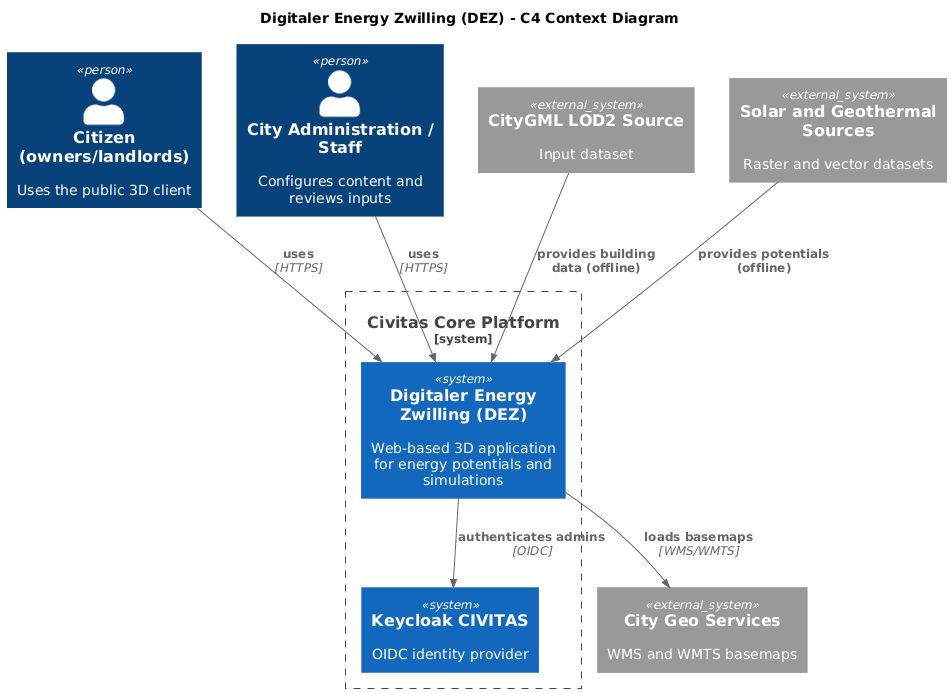
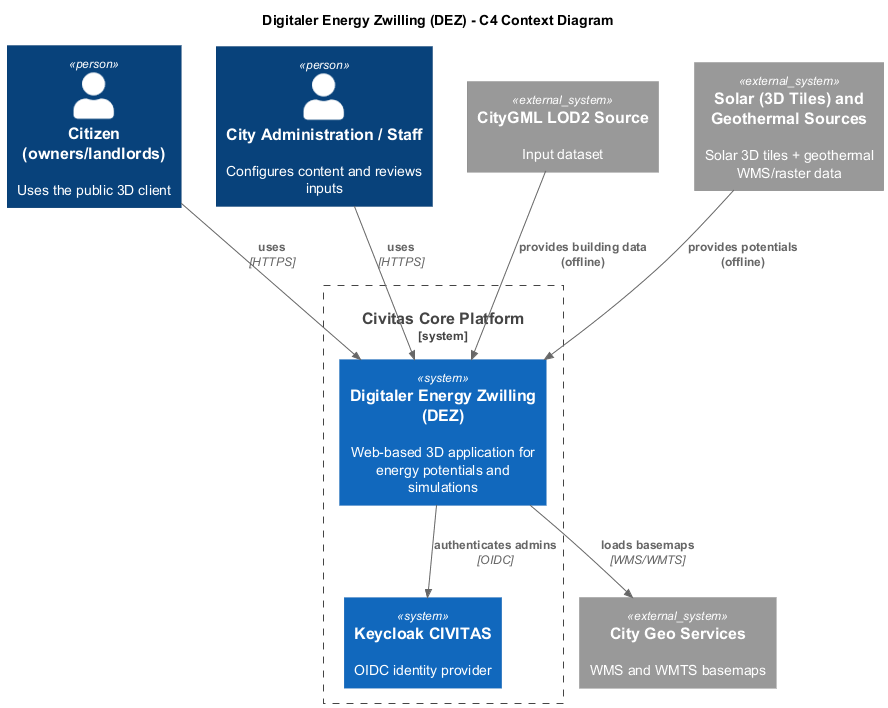
docs: added solarpotentials and other data findings

Changed region(s): [[0.2128, 0.0, 1.0, 1.0], [0.0, 0.0606, 0.2128, 0.303]]

diff --git a/docs/architecture/10-architecture-offline-data-pipeline.md b/docs/architecture/10-architecture-offline-data-pipeline.md
@@ -11,10 +11,13 @@ damit zur Laufzeit keine Datenbankzugriffe für Potenziale nötig sind.
 
 ## Datenquellen
 
-- **Geothermiepotenziale** (WMS)
-- **Solarpotenziale** (CityGML)
-- **LOD2-Daten** (CityGML)
+- **Geothermiepotenziale** (voraussichtlich WMS, Quelle noch offen)
+- **Solarpotenziale** (3D Tiles mit Attributen + Textur)
+- **LOD2-Daten** (CityGML, inkl. Adressen)
+- **Vegetation (Bäume)** (separater Visualisierungs-Layer)
 - **Externer Datendienst** (S3-kompatibler Object Storage) als Austausch- und Ablageort
+
+Hinweis: Solarthermiepotenziale werden derzeit nicht weitergeführt.
 
 ---
 
@@ -24,7 +27,7 @@ damit zur Laufzeit keine Datenbankzugriffe für Potenziale nötig sind.
 - Die **Orchestrierung erfolgt in Civitas Core über Airflow** (DAG-basiert).
 - Ein **externer Datendienst** (z.B. S3) dient als Quelle und Ziel für Rohdaten und erzeugte 3D Tiles.
 - Die **Konvertierung** (CityGML → CityJSON → 3D Tiles) und die **Anreicherung der Metadaten**
-  (Solar- und Geothermiepotenziale) sind **getrennte Verarbeitungsschritte** und laufen in **separaten Containern**.
+  (Solarpotenziale (PV) und Geothermiepotenziale) sind **getrennte Verarbeitungsschritte** und laufen in **separaten Containern**.
 Hinweis: Der **externe Datendienst** entspricht dem in den Architekturdiagrammen referenzierten **3D Tiles Storage**.
 
 ---
@@ -40,14 +43,15 @@ Hinweis: Der **externe Datendienst** entspricht dem in den Architekturdiagrammen
    <https://github.com/csi-FOXBYTE/cityjson-to-3d-tiles>
 
 3. **Anreicherung der Metadaten (separater Schritt)**  
-   Solarpotenziale und Geothermiepotenziale werden **nach der Konvertierung**
-   in einem separaten Verarbeitungsschritt in die 3D-Tile-Objekte integriert.
+   Solarpotenziale liegen als 3D Tiles mit Attributen und Textur vor und werden
+   in einem separaten Verarbeitungsschritt mit den konvertierten Tiles zusammengeführt.
+   Geothermiepotenziale werden (sobald verfügbar) über WMS abgefragt und ergänzt.
    Optional werden abgeleitete Kennwerte (z.B. Hüllfläche, Dachfläche, Volumen) ergänzt.
    Dadurch werden Laufzeit-DB-Zugriffe minimiert.
 
 4. **Optionale visuelle Ableitungen**  
    Weitere visuelle Attribute oder Aggregationen können in diesem Schritt verknüpft oder generiert werden, z.B.:
-   - Solarpotenzial als Farbgradient je Dachfläche
+   - Solarpotenzial-Textur (aus der Lieferung) als Dachflächen-Overlay
    - Geothermiepotenzial als Gebäude-Overlay (Skala/Klassifizierung)
    - Energieeffizienzklasse als Label oder Icon am Gebäude
 
@@ -90,7 +94,7 @@ Task-Reihenfolge je `job_id`:
 ### Storage-Layout (S3-kompatibel)
 
 - `jobs/{job_id}/input/`  
-  Eingabedaten (CityGML-Dateien, Struktur beliebig).
+  Eingabedaten (CityGML-Dateien, Solarpotenzial-3D-Tiles, Vegetationsdaten; Struktur beliebig).
 - `jobs/{job_id}/convert/`  
   Ausgabe der Konvertierung (3D Tiles ohne Metadaten-Anreicherung).
 - `jobs/{job_id}/enriched/`  
@@ -105,7 +109,9 @@ Sicherheitsprinzip: Zugriff auf den Datendienst erfolgt ausschließlich über Se
 
 ### Eingaben
 
-- Ein Ordner mit **CityGML-Dateien** (Dateistruktur innerhalb des Ordners ist beliebig).
+- Ein Ordner mit **CityGML-Dateien** (LOD2, inkl. Adressen; Dateistruktur innerhalb des Ordners ist beliebig).
+- Solarpotenzial-**3D Tiles** (Attribute + Textur) als zusätzliche Eingabe.
+- Vegetationsdaten (Bäume) als eigener Layer (3D Tiles oder vergleichbares Format).
 - **EPSG-Code** muss explizit übergeben werden (Coordinate Reference System kann nicht zuverlässig ausgelesen werden).
 - `appearance` (String) wählt **genau eine** Texture/Theme aus der CityGML-Quelle.
 - `hasAlphaChannel` (Boolean) gibt an, ob die Texture-Daten einen **Alpha-Kanal** enthalten.
@@ -237,14 +243,14 @@ Hinweis: `job_id`, `epsg`, `appearance` und `hasAlphaChannel` werden als DAG-Run
 
 ### Zweck
 
-- Ergänzung von 3D Tiles um Solarpotenziale und Geothermiepotenziale.
+- Ergänzung von 3D Tiles um Solarpotenziale (PV) und Geothermiepotenziale.
 - Optionale Berechnung abgeleiteter Kennwerte (z.B. Hüllfläche, Dachfläche, Volumen).
 
 ### Erwartete Eingaben
 
 - Pfad zu konvertierten 3D Tiles (`jobs/{job_id}/convert/`).
-- Geothermiepotenziale über WMS (EPSG wird für die Abfrage verwendet).
-- Solarpotenziale aus CityGML-Attributen der Dachflächen.
+- Geothermiepotenziale über WMS (EPSG wird für die Abfrage verwendet, Quelle noch offen).
+- Solarpotenzial-3D-Tiles (Attribute + Textur) als Eingabe für das Attribut-Mapping.
 - Konfigurationsparameter für Mapping und Einheiten (siehe Schema).
 
 ### Erwartete Ausgaben
@@ -255,9 +261,9 @@ Hinweis: `job_id`, `epsg`, `appearance` und `hasAlphaChannel` werden als DAG-Run
 ### Mapping-Regeln
 
 - **Gebäudezuordnung** erfolgt über `gml:id` der CityGML-Gebäudeobjekte.
-- **Solarpotenziale** werden von Dachflächen übernommen und je Gebäude aufsummiert.
+- **Solarpotenziale** werden aus den gelieferten 3D-Tiles-Attributen übernommen; eine Aufsummierung je Gebäude ist optional.
 - **Geothermiepotenziale** werden über die Gebäudegrundfläche aus dem WMS gemittelt; falls keine Abdeckung vorliegt, wird der Wert als `null` gesetzt.
-- **Adresse** wird aus den CityGML-Adressobjekten übernommen; wenn nur ein Freitext vorhanden ist, wird dieser als `address_full` gesetzt.
+- **Adresse** wird aus den CityGML-Adressobjekten übernommen; wenn nur ein Freitext vorhanden ist, wird dieser als `address_full` gesetzt. Die Ausgabe der Adresse aus LOD2 ist zwingend sicherzustellen (Fehler im bisherigen Wandler beheben).
 - **Nebengebäude** werden nicht mit Hauptgebäuden zusammengeführt; jedes CityGML-Gebäude wird separat verarbeitet.
 
 ### Metadaten-Schema (Tiles-Attribute)
@@ -272,6 +278,26 @@ Hinweis: `job_id`, `epsg`, `appearance` und `hasAlphaChannel` werden als DAG-Run
 - `solar_yield_kwh_m2a` (Number)
 - `geothermal_potential_w_m2` (Number)
 
+Zusätzliche Rohattribute aus den Solarpotenzial-3D-Tiles (unverändert übernommen):
+- `solarArea` (Number)
+- `Flaeche` (String)
+- `Dachneigung` (String)
+- `Dachorientierung` (String)
+- `SVF_min` (Number)
+- `SVF_avg` (Number)
+- `SVF_med` (Number)
+- `SVF_max` (Number)
+- `Z_MIN` (String)
+- `Z_MAX` (String)
+- `Z_MIN_ASL` (String)
+- `Z_MAX_ASL` (String)
+- `creationDate` (String, ISO-Datum)
+- `globalRadMonths_1..12` (Number)
+- `directRadMonths_1..12` (Number)
+- `diffuseRadMonths_1..12` (Number)
+
+Hinweis: Einheiten und Skalierungen stammen aus der Datenlieferung; es erfolgt keine automatische Normalisierung.
+
 ### Validierungsregeln
 
 - `address_full` muss gesetzt sein.
@@ -285,6 +311,7 @@ Hinweis: `job_id`, `epsg`, `appearance` und `hasAlphaChannel` werden als DAG-Run
 ## Pipeline-Diagramm
 
 Das Diagramm zeigt die Verarbeitungsschritte; Orchestrierung und Datenaustausch über Airflow sind im Abschnitt oben beschrieben.
+Hinweis: Die Solarpotenziale sind aktuell bereits als 3D Tiles verfügbar und werden in der Anreicherung übernommen.
 
 ![offline-data-pipeline.png](./attachments/offline-data-pipeline.png)
 

diff --git a/docs/architecture/08-data-model-api-view.md b/docs/architecture/08-data-model-api-view.md
@@ -39,6 +39,17 @@ abgeleitet. Es trennt **statische Potenzialdaten** (3D Tiles, offline) von
 - **Datenbank**: Eingaben, Konfigurationen, Ergebnisse, Triage, Kataloge, Exporte (nur bei explizitem Export).
 - **Konfigurations-Snapshot**: JSON wird aus der DB-Version erzeugt und als Datei exportiert.
 
+### Statische Tile-Attribute (Auszug)
+
+- **Adressen** stammen aus LOD2 und werden direkt im Tile geführt (`address_full`, `street`, `house_number`, `postal_code`, `city`).
+- **Solarpotenziale** liegen als 3D-Tiles-Attribute vor. Relevante Felder u.a.:
+  `solarArea`, `Flaeche`, `Dachneigung`, `Dachorientierung`, `SVF_min`, `SVF_avg`, `SVF_med`, `SVF_max`,
+  `Z_MIN`, `Z_MAX`, `Z_MIN_ASL`, `Z_MAX_ASL`, `creationDate`,
+  `globalRadMonths_1..12`, `directRadMonths_1..12`, `diffuseRadMonths_1..12`.
+- **Einheiten** werden aus der Datenquelle übernommen; es erfolgt keine DB-Normalisierung.
+- **Geothermiepotenziale** werden, sobald verfügbar, über WMS ermittelt und als statische Attribute ergänzt.
+- **Vegetation (Bäume)** wird als eigener 3D-Tiles-Layer für die Visualisierung ausgeliefert.
+
 ### Konfigurations-Publishing
 
 - **Source of Truth**: Konfigurationen werden in der Datenbank gepflegt und versioniert.

diff --git a/docs/system/01-system-overview.md b/docs/system/01-system-overview.md
@@ -13,7 +13,7 @@ Der DEZ richtet sich nicht an Energieberater oder Förderstellen und liefert kei
 ### Bürger (Eigentümer/Vermieter)
 - Zugriff ohne Authentifizierung
 - Interaktive 3D-Visualisierung des Stadtmodells mit Gebäudeauswahl
-- Anzeige von Solar- und Geothermiepotenzialen
+- Anzeige von Solarpotenzialen (PV) und Geothermiepotenzialen
 - Einfache Simulationen für Sanierungsmaßnahmen in mehreren Stufen
 - Nutzung ohne verpflichtende Datenübermittlung; Export nur auf Wunsch
 
@@ -52,6 +52,7 @@ Rechenintensive Potenzialanalysen werden offline durchgeführt und als Attribute
 ## Datenhaltung und Datenfluss
 
 - Statische, allgemein gültige Potenziale liegen ausschließlich in den 3D Tiles.
+- 3D Tiles enthalten Gebäudegeometrie, Adressen aus LOD2, Solarpotenzial-Attribute (inkl. Textur für die Potenzialdarstellung) sowie Vegetationsobjekte (Bäume).
 - Dynamische, nutzerspezifische Daten liegen in der Datenbank.
 - Konfigurationen werden versioniert und als veröffentlichte JSON-Snapshots für den Client bereitgestellt.
 - Es gibt keine doppelte Datenhaltung statischer Potenziale im Backend.

diff --git a/docs/architecture/04-architecture-overview.md b/docs/architecture/04-architecture-overview.md
@@ -17,7 +17,7 @@ Zentrale Leitprinzipien der Architektur sind:
 
 ### Statische Daten statt Laufzeitberechnung
 
-Alle rechenintensiven und allgemein gültigen Daten (z.B. Solar- und Geothermiepotenziale) werden **offline vorverarbeitet** und als **statische Attribute direkt in die 3D Tiles eingebettet**.  
+Alle rechenintensiven und allgemein gültigen Daten (z.B. Solarpotenziale (PV) und Geothermiepotenziale) werden **offline vorverarbeitet** und als **statische Attribute direkt in die 3D Tiles eingebettet**.  
 Zur Laufzeit findet keine Neuberechnung dieser Potenziale statt.
 
 Dies reduziert:
@@ -94,6 +94,9 @@ Das Backend ist **nicht** für die Auslieferung großer statischer Datenmengen z
 - offline erzeugt
 - mit allen relevanten Potenzialattributen angereichert
 - über ein dediziertes Gateway bereitgestellt
+
+Die Tiles enthalten zusätzlich Adressen aus LOD2, optionale Texturen zur Solarpotenzial-Visualisierung
+und Vegetationsobjekte (Bäume) für die 3D-Darstellung.
 
 Das Gateway entkoppelt die Auslieferung der Tiles vom Backend und ermöglicht eine skalierbare Bereitstellung.
 

diff --git a/docs/architecture/07-architecture-c4-components.md b/docs/architecture/07-architecture-c4-components.md
@@ -51,9 +51,10 @@ Der Public Client ist die zentrale Benutzeroberfläche für Bürger (Eigentümer
 
 Aufgaben:
 - Darstellung des 3D-Stadtmodells
-- Anzeige energetischer Potenziale aus den 3D Tiles
+- Anzeige von Solarpotenzialen (PV) und Geothermiepotenzialen aus den 3D Tiles
 - Durchführung der energetischen Simulation
 - Darstellung der Simulationsergebnisse
+Hinweis: Die Solarpotenzial-Textur und Vegetationsobjekte (Bäume) werden für die visuelle Orientierung genutzt.
 
 Die Simulation wird standardmäßig vollständig im Browser ausgeführt.
 
@@ -206,7 +207,7 @@ Die Offline-Datenpipeline ist als eigenständiger Verarbeitungspfad modelliert.
 
 Aufgaben:
 - Verarbeitung von CityGML-Daten
-- Integration von Solar- und Geothermiepotenzialen
+- Integration von Solarpotenzialen (PV) und Geothermiepotenzialen
 - Anreicherung der Gebäudedaten
 - Erzeugung der finalen 3D Tiles
 

diff --git a/docs/architecture/06-architecture-c4-container.md b/docs/architecture/06-architecture-c4-container.md
@@ -107,7 +107,8 @@ Das 3D Tiles Storage enthält die vorverarbeiteten 3D Tiles.
 
 Eigenschaften:
 - Statische Datenhaltung
-- Enthält Gebäudestrukturen sowie Solar- und Geothermiepotenziale
+- Enthält Gebäudestrukturen, Adressen aus LOD2, Solarpotenzial-Attribute (inkl. Textur) sowie Vegetation (Bäume)
+- Geothermiepotenziale werden ergänzt, sobald die Quelle verfügbar ist (voraussichtlich WMS)
 - Keine Laufzeitänderungen
 
 Die Daten im Storage werden ausschließlich durch die Offline-Datenpipeline erzeugt.
@@ -133,7 +134,7 @@ Die Offline Datenpipeline ist ein eigenständiger Verarbeitungspfad außerhalb d
 
 Aufgaben:
 - Verarbeitung von CityGML-Daten
-- Integration von Solar- und Geothermiedaten
+- Integration von Solarpotenzialen (PV) und Geothermiedaten
 - Anreicherung der Gebäudedaten mit Potenzialattributen
 - Erzeugung der finalen 3D Tiles
 

diff --git a/docs/architecture/11-architecture-frontend.md b/docs/architecture/11-architecture-frontend.md
@@ -16,7 +16,9 @@ Dieses Kapitel beschreibt Aufbau, Verantwortlichkeiten und Schnittstellen des Fr
 ## Verantwortlichkeiten
 
 - Darstellung des 3D-Stadtmodells und Auswahl einzelner Gebäude.
-- Visualisierung von Solar- und Geothermiepotenzialen aus 3D Tiles.
+- Visualisierung von Solarpotenzialen (PV) und Geothermiepotenzialen aus 3D Tiles.
+- Nutzung der Solarpotenzial-Textur (z.B. Dachausrichtung) für visuelle Hinweise.
+- Darstellung von Vegetationsobjekten (Bäume) zur besseren räumlichen Orientierung.
 - Durchführung der Simulation im Browser über den Simulationskern.
 - Darstellung der Ergebnisse und Hinweise für Bürger (Eigentümer/Vermieter).
 - Administrative Funktionen für Stadtverwaltung / Fachpersonal (Konfiguration, Triage).

diff --git a/docs/requirements/02-nonfunctional-requirements.md b/docs/requirements/02-nonfunctional-requirements.md
@@ -38,13 +38,15 @@ Zu jedem Gebäude müssen energetische Potenziale visuell darstellbar sein.
 ### Anzeige energetischer Potenziale
 
 **FA-04**  
-Das System muss Solarthermiepotenziale auf Gebäude- oder Dachflächenebene anzeigen können.
+Das System muss Solarpotenziale (PV) auf Gebäude- oder Dachflächenebene anzeigen können.
 
 **FA-05**  
 Das System muss Geothermiepotenziale gebäudebezogen anzeigen können.
 
 **FA-06**  
 Die Potenziale müssen für den Nutzer verständlich und vergleichbar dargestellt werden.
+
+Hinweis: Solarthermiepotenziale sind derzeit nicht Bestandteil der fachlichen Anforderungen.
 
 ---
 

diff --git a/docs/requirements/03-functional-requirements.md b/docs/requirements/03-functional-requirements.md
@@ -58,10 +58,12 @@ Die 3D-Visualisierung muss auf dem Standard 3D Tiles basieren.
 3D Tiles müssen vollständig offline vorverarbeitet werden.
 
 **TA-12**  
-Solarthermie- und Geothermiepotenziale müssen als statische Attribute direkt in den 3D Tiles abgelegt sein.
+Solarpotenziale (PV) und Geothermiepotenziale müssen als statische Attribute direkt in den 3D Tiles abgelegt sein.
 
 **TA-13**  
 Zur Laufzeit dürfen keine Solar- oder Geothermiepotenziale berechnet werden.
+
+Hinweis: Solarthermiepotenziale sind nicht Teil der technischen Anforderungen.
 
 **TA-14**  
 3D Tiles dürfen nicht vom Backend ausgeliefert werden.

diff --git a/docs/architecture/05-architecture-c4-context.md b/docs/architecture/05-architecture-c4-context.md
@@ -28,7 +28,7 @@ Quelle: `raw/c4-context.puml`
 - **Keycloak CIVITAS**: OIDC-Identity-Provider für Admin-Login (Plattformdienst innerhalb von Civitas Core).
 - **City Geo Services**: liefert Basemaps via WMS/WMTS.
 - **CityGML LOD2 Source**: Gebäudedaten für die Offline-Aufbereitung.
-- **Solar and Geothermal Sources**: Potenzialdaten als Raster-/Vektorquellen.
+- **Solar and Geothermal Sources**: Potenzialdaten als Raster-/Vektorquellen bzw. 3D Tiles (Solar).
 
 ---
 
